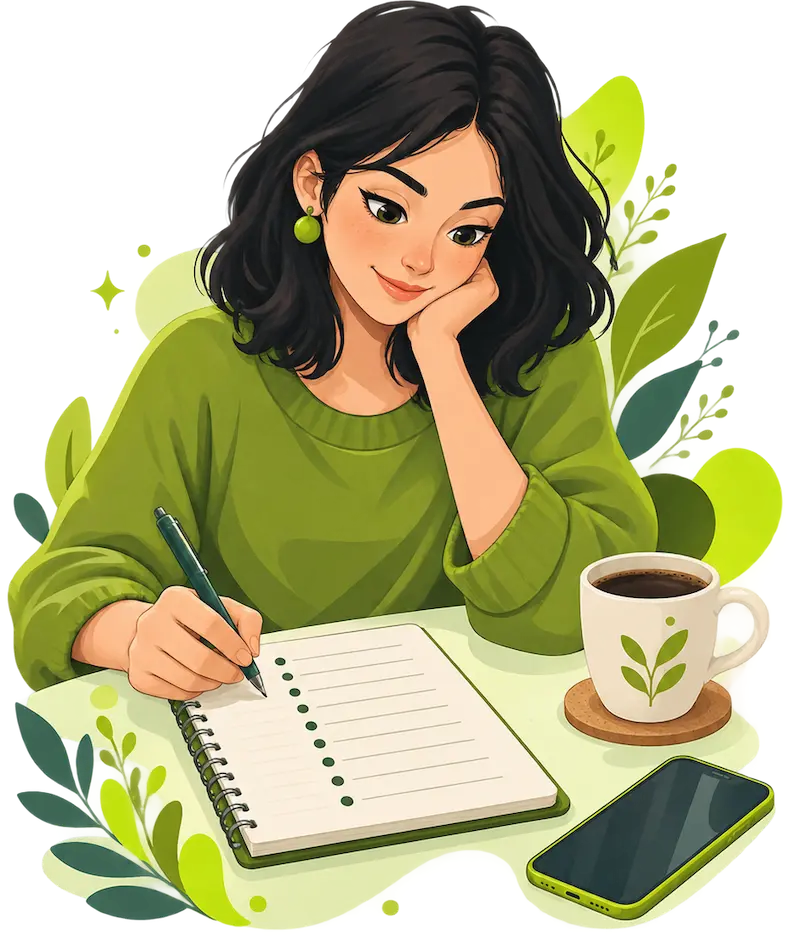
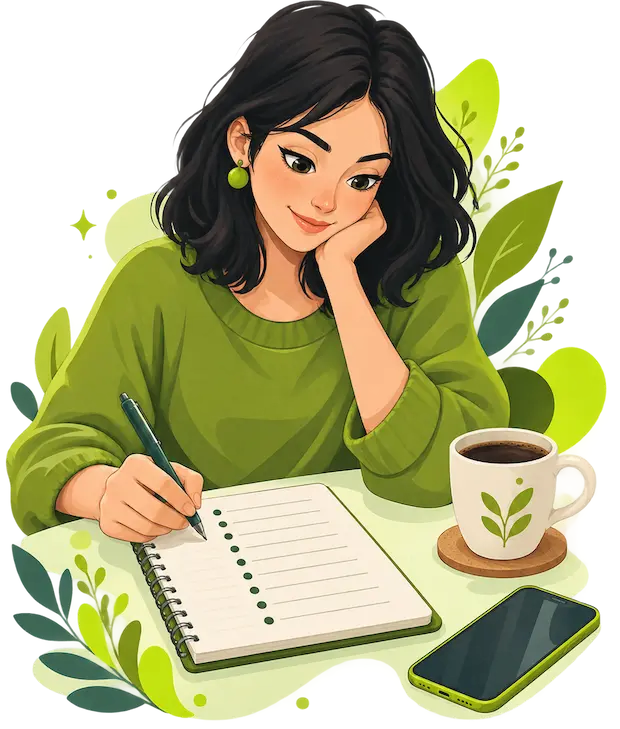
new folder structure

diff --git a/es/ya-uso-g1nkgo/index.md b/es/ya-uso-g1nkgo/index.md
@@ -1,0 +1,26 @@
+---
+layout: default
+title: Ya uso G1nkgo
+---
+
+[← Volver al inicio](../)
+
+# Ya uso <span class="verde">G1nkgo</span>
+
+Para sacarle más partido a la app: contactos, mensajes, cobros y más.
+
+- Ver mis movimientos *(próximamente)*
+- Estado de los pagos *(próximamente)*
+- Buscar usuarios *(próximamente)*
+- Gestionar contactos *(próximamente)*
+- Mensajes *(próximamente)*
+- Opciones de mensajería *(próximamente)*
+- Cobrar en un puesto *(próximamente)*
+- Pagar a varias personas *(próximamente)*
+- Varios monederos *(próximamente)*
+- Importar un monedero *(próximamente)*
+- Ya tenía un monedero antes *(próximamente)*
+- Configuración y modo experto *(próximamente)*
+- Información de la app *(próximamente)*
+- Analiza tu mercado *(próximamente)*
+- Qué son las certificaciones *(próximamente)*

diff --git a/es/index.md b/es/index.md
@@ -1,0 +1,22 @@
+---
+layout: default
+title: Guía de uso de G1nkgo
+---
+
+[← Cambiar de idioma](../)
+
+![Logotipo de G1nkgo](../imagenes/logo-g1nkgo.png)
+
+# Guía de uso <span class="verde">de G1nkgo</span>
+
+Aprende a usar tu monedero Ğ1 paso a paso. Elige el camino que mejor te describe:
+
+<div class="tarjetas niveles" markdown="1">
+
+- [**Estoy empezando** Instala G1nkgo, crea tu monedero y haz tus primeros pagos.](empezando/)
+- [**Ya uso G1nkgo** Contactos, mensajes, cobros, varios monederos y certificaciones.](ya-uso-g1nkgo/)
+- [**Soy miembro** Renueva tu adhesión, certifica a otras personas y gestiona tu identidad.](soy-miembro/)
+
+</div>
+
+> **¿No sabes por dónde empezar?** Elige **Estoy empezando**. Cada página explica una sola cosa, así que puedes volver cuando quieras.

diff --git a/es/empezando/index.md b/es/empezando/index.md
@@ -1,0 +1,21 @@
+---
+layout: default
+title: Estoy empezando
+---
+
+[← Volver al inicio](../)
+
+# Estoy <span class="verde">empezando</span>
+
+Todo lo que necesitas para instalar G1nkgo, crear tu monedero y usarlo por primera vez. Sigue las páginas en este orden:
+
+- Qué es la Ğ1 *(próximamente)*
+- Qué es G1nkgo *(próximamente)*
+- Instalar G1nkgo en Android *(próximamente)*
+- Usar G1nkgo desde el navegador *(próximamente)*
+- Tu primer monedero *(próximamente)*
+- Guarda tu frase de recuperación *(próximamente)*
+- Protege tu cuenta *(próximamente)*
+- Qué es una dirección pública *(próximamente)*
+- Recibir Junas *(próximamente)*
+- Enviar Junas *(próximamente)*

diff --git a/es/soy-miembro/index.md b/es/soy-miembro/index.md
@@ -1,0 +1,17 @@
+---
+layout: default
+title: Soy miembro
+---
+
+[← Volver al inicio](../)
+
+# Soy <span class="verde">miembro</span>
+
+Recordatorios rápidos para quienes ya forman parte de la Red de Confianza.
+
+- Opciones de cuenta *(próximamente)*
+- Renovar mi adhesión *(próximamente)*
+- Antes de certificar *(próximamente)*
+- Emitir una certificación *(próximamente)*
+- Migrar mi identidad *(próximamente)*
+- Revocar mi identidad *(próximamente)*

diff --git a/index.md b/index.md
@@ -1,0 +1,18 @@
+---
+layout: default
+title: Guía de uso de G1nkgo
+---
+
+![Logotipo de G1nkgo](imagenes/logo-g1nkgo.png)
+
+# Guía de uso <span class="verde">paso a paso</span>
+
+Elige tu idioma · Choisis ta langue · Choose your language
+
+<div class="tarjetas" markdown="1">
+
+- [**Español** Guía completa en español.](es/)
+
+</div>
+
+Français y English, próximamente.
